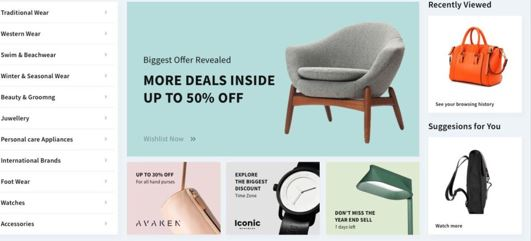
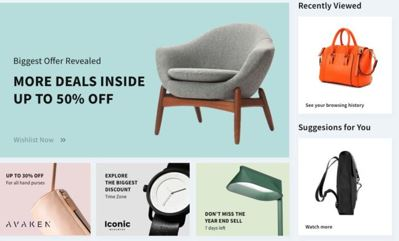
add the sidebar

diff --git a/frontend/src/components/Sidebar.js b/frontend/src/components/Sidebar.js
@@ -1,22 +1,51 @@
-import React from 'react';
+import React, { useState } from 'react';
+import { Link } from 'react-router-dom';
 import { FaTshirt, FaShoePrints, FaGift } from 'react-icons/fa';
+import { FontAwesomeIcon } from '@fortawesome/react-fontawesome';
+import { faCouch, faLaptop, faMobileAlt } from '@fortawesome/free-solid-svg-icons';
 
 const Sidebar = () => {
+  // State for sidebar toggle
+  const [sidebarOpen, setSidebarOpen] = useState(false);
+
+  // Categories
+  const categories = [
+    { name: 'Traditional Wear', icon: <FaTshirt />, path: '/traditional-wear' },
+    { name: 'Footwear', icon: <FaShoePrints />, path: '/footwear' },
+    { name: 'Accessories', icon: <FaGift />, path: '/accessories' },
+    { name: 'Furniture', icon: <FontAwesomeIcon icon={faCouch} />, path: '/furniture' },
+    { name: 'Electronics', icon: <FontAwesomeIcon icon={faLaptop} />, path: '/electronics' },
+    { name: 'Mobile Phones', icon: <FontAwesomeIcon icon={faMobileAlt} />, path: '/mobile-phones' },
+  ];
+
   return (
-    <div className="bg-gray-100 w-64 p-4 h-screen">
-      <h2 className="text-lg font-bold mb-4">Categories</h2>
-      <ul className="space-y-4">
-        <li className="flex items-center">
-          <FaTshirt className="mr-2" /> Traditional Wear
-        </li>
-        <li className="flex items-center">
-          <FaShoePrints className="mr-2" /> Footwear
-        </li>
-        <li className="flex items-center">
-          <FaGift className="mr-2" /> Accessories
-        </li>
-        {/* Add more categories */}
-      </ul>
+    <div>
+      {/* Toggle Sidebar Button */}
+      <button
+        className="p-2 bg-blue-500 text-white fixed top-4 left-4 z-50 md:hidden"
+        onClick={() => setSidebarOpen(!sidebarOpen)}
+      >
+        {sidebarOpen ? 'Close' : 'Menu'}
+      </button>
+
+      {/* Sidebar */}
+      <div
+        className={`fixed z-40 top-0 left-0 h-full bg-gray-100 w-64 p-4 transition-transform transform ${
+          sidebarOpen ? 'translate-x-0' : '-translate-x-full'
+        } md:relative md:translate-x-0`}
+      >
+        <h2 className="text-lg font-bold mb-4">Categories</h2>
+        <ul className="space-y-4">
+          {categories.map((category, index) => (
+            <li key={index} className="flex items-center cursor-pointer hover:text-blue-500">
+              {category.icon}
+              <Link to={category.path} className="ml-2">
+                {category.name}
+              </Link>
+            </li>
+          ))}
+        </ul>
+      </div>
     </div>
   );
 };

diff --git a/frontend/src/App.js b/frontend/src/App.js
@@ -1,19 +1,32 @@
 import React from 'react';
-import Sidebar from './components/Sidebar';
+import { BrowserRouter as Router } from 'react-router-dom';
 import Header from './components/Header';
 import BelowHeader from './components/BelowHeader';
-import Main from './components/Main';
+import Sidebar from './components/Sidebar';
+import AppRoutes from './routes/Routes';
 
 const App = () => {
   return (
-    <div className="flex flex-col h-screen">
-      <Header />
-      <BelowHeader />
-      <div className="flex flex-1">
-        <Sidebar />
-        <Main />
+    <Router>
+      <div className="flex flex-col h-screen">
+        {/* Header */}
+        <Header />
+
+        {/* Below Header */}
+        <BelowHeader />
+
+        {/* Main Content */}
+        <div className="flex flex-1">
+          {/* Sidebar */}
+          <Sidebar />
+
+          {/* Routes */}
+          <div className="flex-1 p-4">
+            <AppRoutes />
+          </div>
+        </div>
       </div>
-    </div>
+    </Router>
   );
 };
 

diff --git a/frontend/src/routes/Routes.js b/frontend/src/routes/Routes.js
@@ -1,0 +1,26 @@
+import React from 'react';
+import { Routes, Route } from 'react-router-dom';
+
+// Import pages/components
+import TraditionalWear from '../pages/TraditionalWear';
+import Footwear from '../pages/Footwear';
+import Accessories from '../pages/Accessories';
+import Furniture from '../pages/Furniture';
+import Electronics from '../pages/Electronics';
+import MobilePhones from '../pages/MobilePhones';
+
+// Define all routes in one place
+const AppRoutes = () => {
+  return (
+    <Routes>
+      <Route path="/traditional-wear" element={<TraditionalWear />} />
+      <Route path="/footwear" element={<Footwear />} />
+      <Route path="/accessories" element={<Accessories />} />
+      <Route path="/furniture" element={<Furniture />} />
+      <Route path="/electronics" element={<Electronics />} />
+      <Route path="/mobile-phones" element={<MobilePhones />} />
+    </Routes>
+  );
+};
+
+export default AppRoutes;

diff --git a/frontend/src/components/Header.js b/frontend/src/components/Header.js
@@ -7,7 +7,7 @@ const Header = () => {
     <header className="bg-black text-white py-2 px-6 flex items-center justify-between">
       {/* Logo */}
       <div className="text-2xl font-bold tracking-wide">
-        vendNear
+      <a href="http://localhost:3000/" className="hover:text-blue-400">vendNear</a>
       </div>
 
       {/* Navigation Menu */}

diff --git a/frontend/src/pages/TraditionalWear.js b/frontend/src/pages/TraditionalWear.js
@@ -1,0 +1,7 @@
+import React from 'react';
+
+const TraditionalWear = () => {
+  return <div>Welcome to the Traditional Wear page!</div>;
+};
+
+export default TraditionalWear;

diff --git a/frontend/src/pages/MobilePhones.js b/frontend/src/pages/MobilePhones.js
@@ -1,0 +1,7 @@
+import React from 'react';
+
+const Accessories = () => {
+  return <div>Explore our MobilePhones collection!</div>;
+};
+
+export default Accessories;

diff --git a/frontend/src/pages/Accessories.js b/frontend/src/pages/Accessories.js
@@ -1,0 +1,7 @@
+import React from 'react';
+
+const Accessories = () => {
+  return <div>Explore our Accessories collection!</div>;
+};
+
+export default Accessories;

diff --git a/frontend/src/pages/Electronics.js b/frontend/src/pages/Electronics.js
@@ -1,0 +1,7 @@
+import React from 'react';
+
+const Electronics = () => {
+  return <div>Explore our Electronics collection!</div>;
+};
+
+export default Electronics;

diff --git a/frontend/src/pages/Furniture.js b/frontend/src/pages/Furniture.js
@@ -1,0 +1,7 @@
+import React from 'react';
+
+const Furniture = () => {
+  return <div>Explore our Furnites collection!</div>;
+};
+
+export default Furniture;

diff --git a/frontend/src/pages/Footwear.js b/frontend/src/pages/Footwear.js
@@ -1,0 +1,7 @@
+import React from 'react';
+
+const Footwear = () => {
+  return <div>Explore our Footwear collection!</div>;
+};
+
+export default Footwear;
